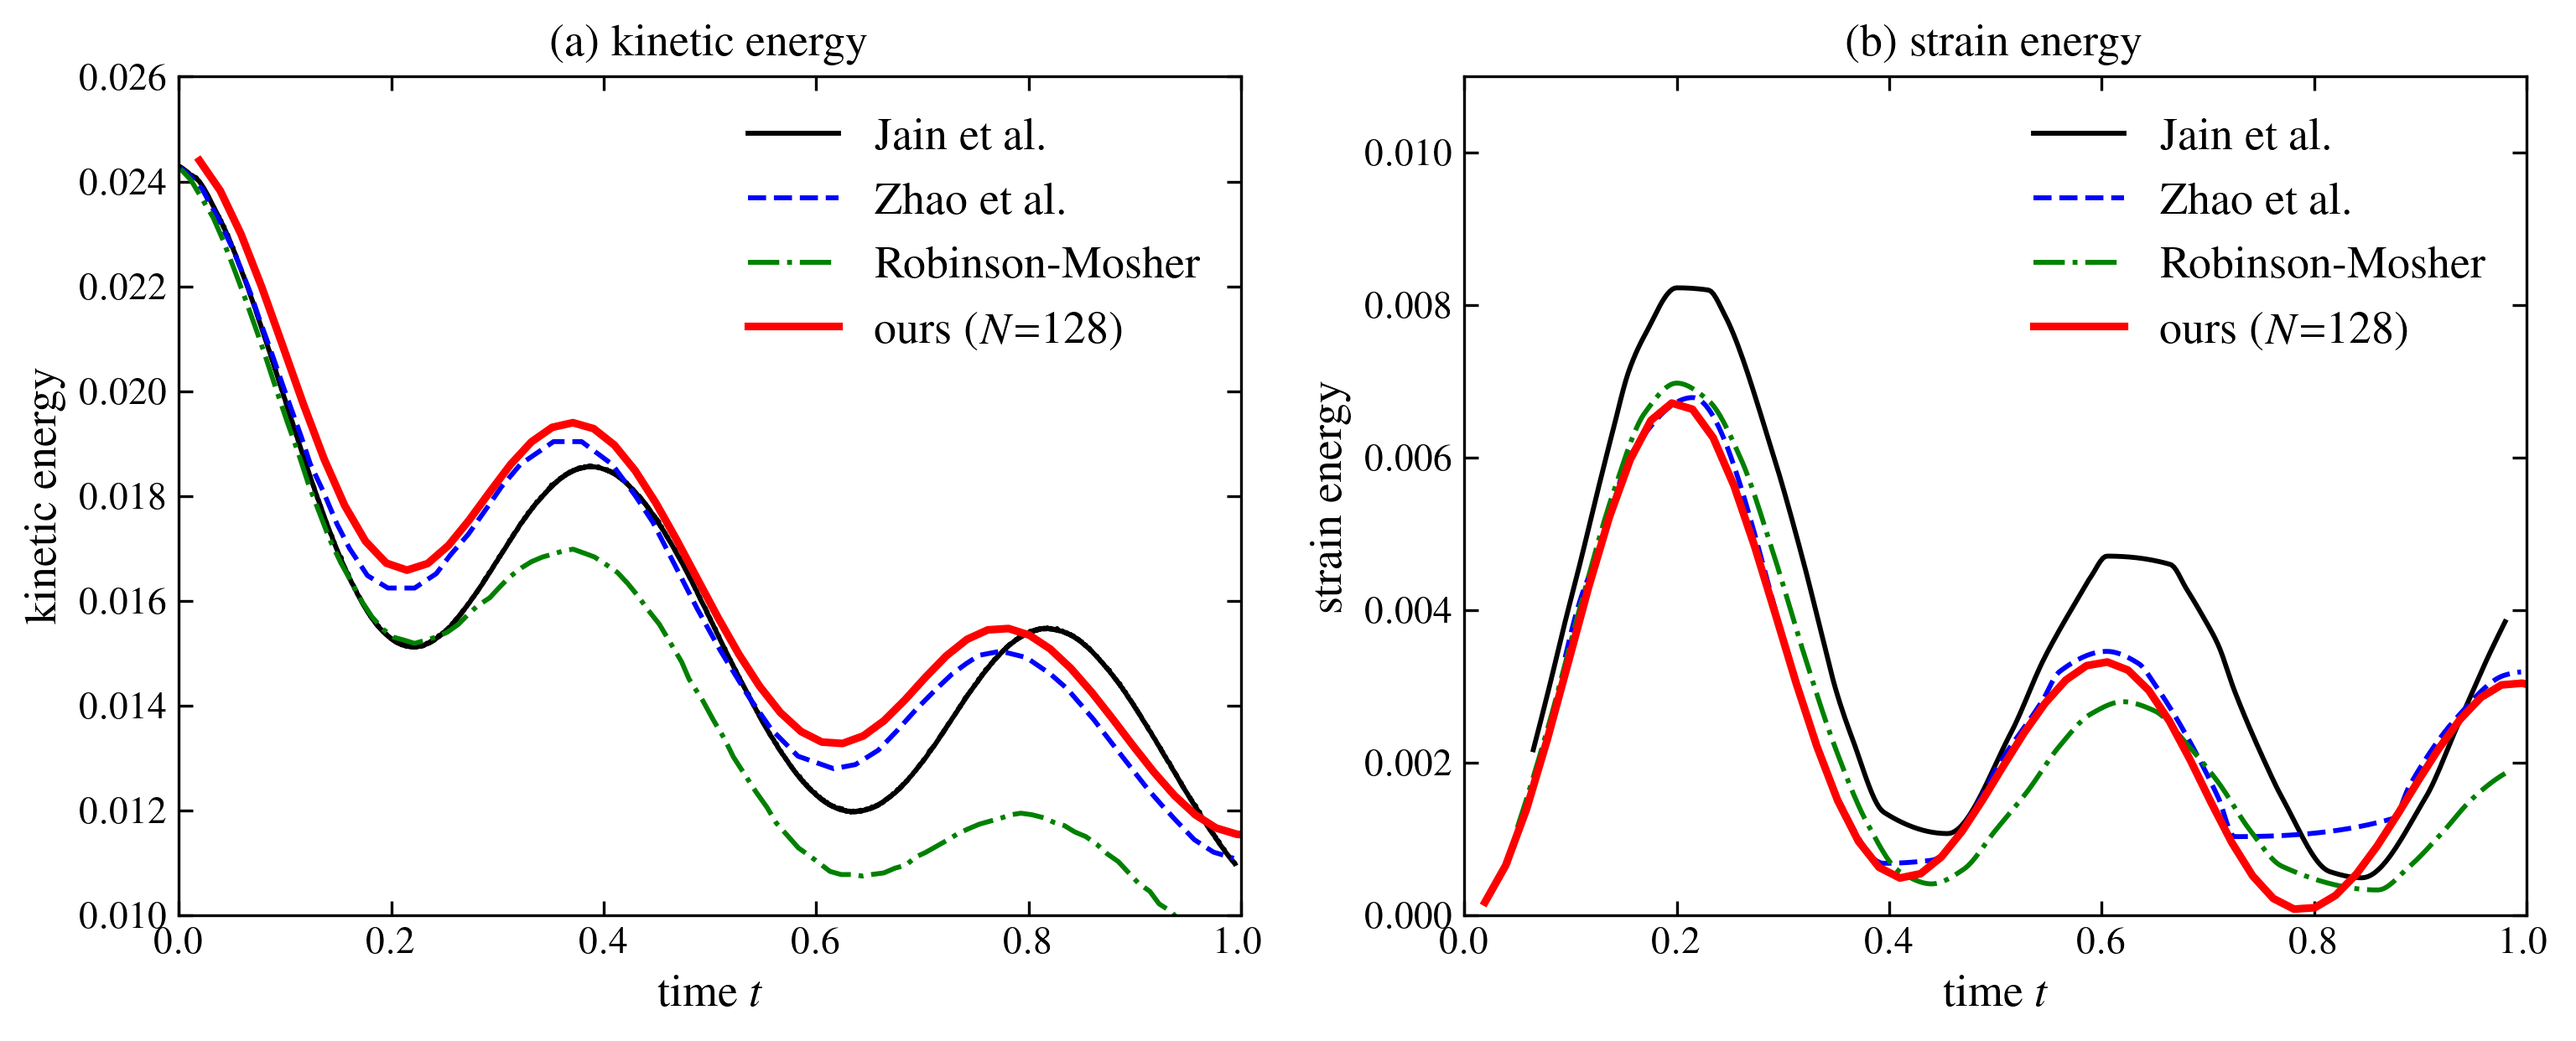
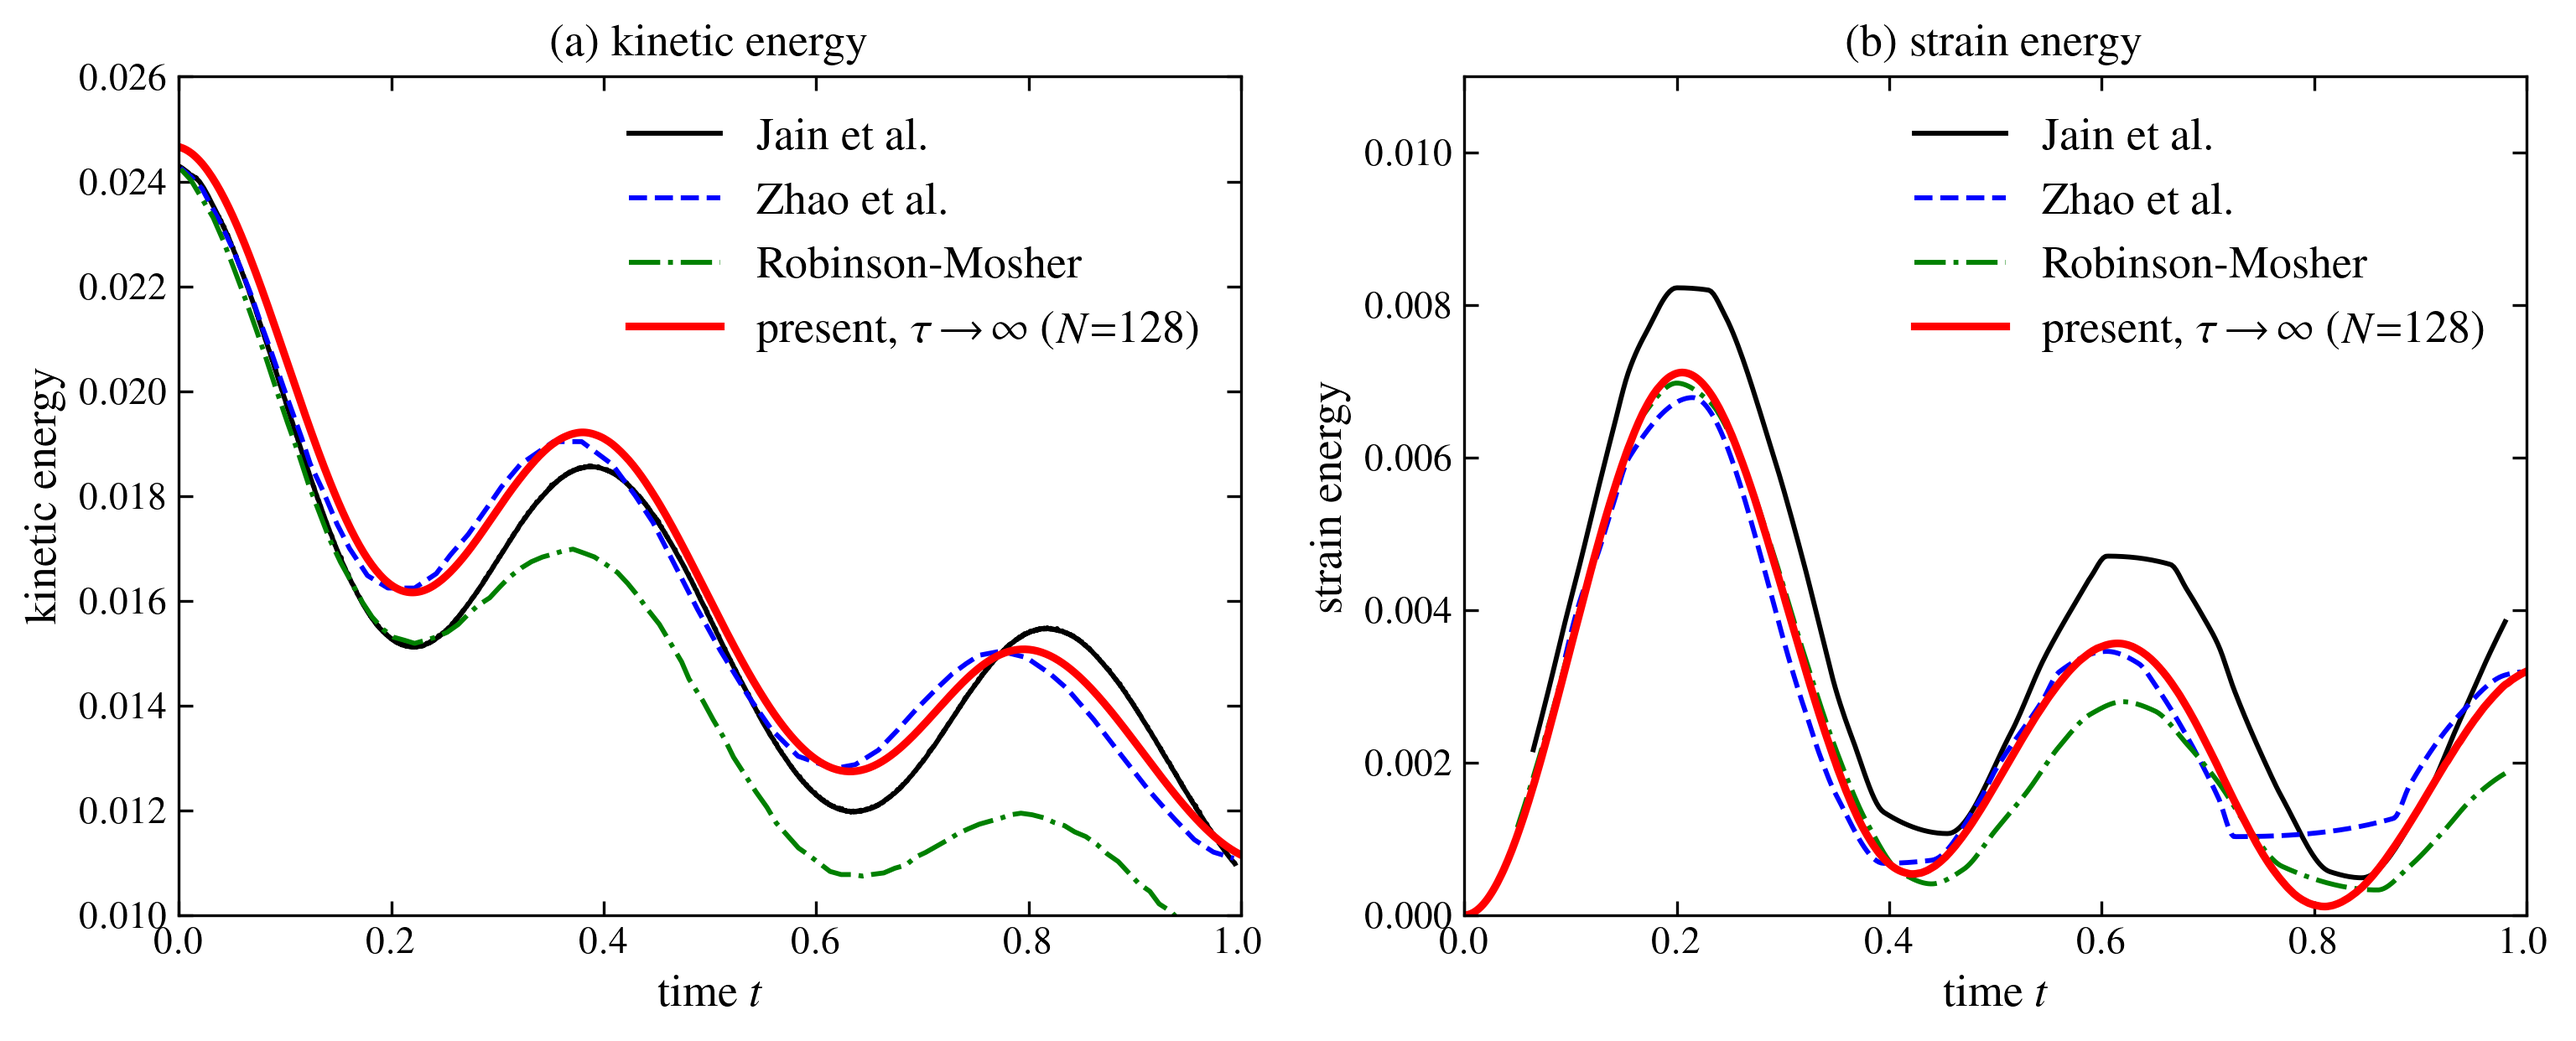
paper: present the elastic benchmarks as the tau->inf limit (unified model)
Reframe the pure-elastic results as the tau->inf limit of the viscoelastic model
(elasticity carried by the log-conformation branch, b_e -> F F^T), keeping the SLS
equilibrium branch in the formulation (still a viscoelastic solid). Verified by a
gate test (tg_tauinf_gate.py): tau->inf log-conf reproduces the neo-Hookean
disc-in-Taylor-Green KE/strain-energy to 3-5% of range (well inside the
Jain-Zhao spread), with cubic transport (bilinear also works -- this is an
extensional, non-winding flow).

- disc_tg_energy_figure.py: Fig 3 present curve now the tau->inf log-conf run
- main.tex: disc-in-TG + lid + example-summary + captions reframed to "elastic /
  tau->inf limit" (formulation/equilibrium branch retained)

diff --git a/benchmarks/tg_tauinf_gate.py b/benchmarks/tg_tauinf_gate.py
@@ -1,0 +1,74 @@
+"""GATE TEST: does the tau->inf log-conformation elastic limit reproduce the neo-Hookean
+disc-in-Taylor-Green energy benchmark (Fig. 3, vs Jain/Zhao)?
+
+Decision experiment for unifying the constitutive model on the log-conformation SLS with
+elasticity as the tau->inf limit. Compares, at the Jain parameters (N=128):
+  neo        -- reference-map neo-Hookean, sigma = mu_s dev(F F^T)   (the current Fig.3 curve)
+  tauinf     -- pure log-conformation branch at tau=inf, G_ve=mu_s   (cubic transport)
+  tauinf_bl  -- same, bilinear transport (expected to artificially relax -- illustrative)
+against the digitized Jain/Zhao kinetic-energy references. If neo and tauinf(cubic) coincide
+and track the references, the replacement is sound.
+"""
+import os, sys
+import numpy as np
+sys.path.insert(0, os.path.dirname(os.path.dirname(os.path.abspath(__file__))))
+from benchmarks.mac_disc_in_tg_convergence import run_one as run_neo
+from benchmarks.viscoelastic_disc_tg import run_one as run_ve
+from benchmarks.disc_tg_fsi_convergence import JAIN, _load_jain_methods
+
+ROOT = os.path.dirname(os.path.dirname(os.path.abspath(__file__)))
+JP = dict(R=0.2, x0=0.5, y0=0.5, mu_s=1.0, mu_f=1e-3, U0=0.05, kw=2)   # Jain params
+
+
+def main():
+    import matplotlib; matplotlib.use("Agg")
+    sys.path.insert(0, os.path.join(ROOT, "benchmarks"))
+    from _plotstyle import apply as _style; _style()
+    import matplotlib.pyplot as plt
+
+    N, T = 128, 1.0
+    print("neo (reference-map FFt, bilinear)...", flush=True)
+    hneo = run_neo(N, T, integrator="imex", **JAIN)["hist"]
+    print("tauinf (log-conf, cubic)...", flush=True)
+    hcub = run_ve(N, T, model="maxwell", G_ve=1.0, tau=np.inf, integrator="imex",
+                  scheme="semilagrangian_cubic", history=True, **JP)["hist"]
+    print("tauinf (log-conf, bilinear)...", flush=True)
+    hbl = run_ve(N, T, model="maxwell", G_ve=1.0, tau=np.inf, integrator="imex",
+                 scheme="semilagrangian", history=True, **JP)["hist"]
+    np.savez(os.path.join(ROOT, "outputs", "overlay", "tg_tauinf_gate.npz"),
+             neo_t=hneo["t"], neo_ke=hneo["ke"], neo_se=hneo["se"],
+             cub_t=hcub["t"], cub_ke=hcub["KE"], cub_se=hcub["Eel"],
+             bl_t=hbl["t"], bl_ke=hbl["KE"], bl_se=hbl["Eel"])
+
+    methods = _load_jain_methods()
+    ddir = os.path.join(ROOT, "benchmarks", "data")
+    fig, ax = plt.subplots(1, 2, figsize=(10.6, 4.4))
+    for m, c in (("Jain", "black"), ("Zhao", "blue")):
+        p = os.path.join(ddir, f"jain2019_fig14b_{m}_ke.csv")
+        if os.path.isfile(p):
+            d = np.loadtxt(p, delimiter=",", skiprows=1)
+            ax[0].plot(d[:, 0], d[:, 1], color=c, lw=1.2, ls="--", label=f"{m} et al.")
+        if methods and f"{m}_se" in methods:
+            t, y = methods[f"{m}_se"]; ax[1].plot(t, y, color=c, lw=1.2, ls="--", label=f"{m} et al.")
+    ax[0].plot(hneo["t"], hneo["ke"], "-", color="tab:red", lw=2.0, label="neo-Hookean")
+    ax[0].plot(hcub["t"], hcub["KE"], "--", color="tab:green", lw=1.8, label=r"$\tau\!\to\!\infty$ log-conf (cubic)")
+    ax[0].plot(hbl["t"], hbl["KE"], ":", color="tab:orange", lw=1.6, label=r"$\tau\!\to\!\infty$ (bilinear)")
+    ax[1].plot(hneo["t"], hneo["se"], "-", color="tab:red", lw=2.0, label="neo-Hookean")
+    ax[1].plot(hcub["t"], hcub["Eel"], "--", color="tab:green", lw=1.8, label=r"$\tau\!\to\!\infty$ (cubic)")
+    ax[1].plot(hbl["t"], hbl["Eel"], ":", color="tab:orange", lw=1.6, label=r"$\tau\!\to\!\infty$ (bilinear)")
+    ax[0].set_title("(a) kinetic energy"); ax[0].set_xlabel("time $t$"); ax[0].set_xlim(0, 1)
+    ax[1].set_title("(b) strain energy"); ax[1].set_xlabel("time $t$"); ax[1].set_xlim(0, 1)
+    ax[0].legend(fontsize=8); ax[1].legend(fontsize=8)
+    fig.tight_layout()
+    out = os.path.join(ROOT, "outputs", "overlay", "tg_tauinf_gate.png")
+    fig.savefig(out, dpi=170); print("saved", out)
+
+    def rms(a, b):  # over the shorter overlap
+        n = min(len(a), len(b)); return float(np.sqrt(np.mean((np.array(a[:n]) - np.array(b[:n]))**2)))
+    print(f"\nKE  rms(neo, cubic)={rms(hneo['ke'], hcub['KE']):.3e}   rms(neo, bilinear)={rms(hneo['ke'], hbl['KE']):.3e}")
+    print(f"SE  rms(neo, cubic)={rms(hneo['se'], hcub['Eel']):.3e}   rms(neo, bilinear)={rms(hneo['se'], hbl['Eel']):.3e}")
+    print(f"final SE: neo={hneo['se'][-1]:.4e}  cubic={hcub['Eel'][-1]:.4e}  bilinear={hbl['Eel'][-1]:.4e}")
+
+
+if __name__ == "__main__":
+    main()

diff --git a/paper/main.tex b/paper/main.tex
@@ -233,7 +233,7 @@ time integrators;
 and \cref{sec:verification} presents the numerical examples---constitutive verification
 against analytic limits; the disc-in-Taylor--Green benchmark and its viscoelastic (SLS)
 extension; the four-roll extension and shear benchmarks; colliding-disc contact in both
-regimes; the stiff-solid regime; and the neo-Hookean lid-driven cavity against Sugiyama
+regimes; the stiff-solid regime; and the elastic disc in a lid-driven cavity against Sugiyama
 \emph{et al.}---with the pure-fluid lid-cavity
 (Ghia) validation, the spatial-accuracy check, and the reference-map advection-scheme
 comparison collected in the supplementary material.
@@ -834,10 +834,13 @@ $1.0$ & $\infty,1,\tfrac14$ & $\psi_0{=}0.3$ & $\min(\tfrac{0.25\dx}{U_0 k},\tfr
 
 \subsection{Disc in a Taylor--Green vortex}
 \label{sec:disc-tg}
-A neo-Hookean disc of radius $r=0.2$ at the centre of a unit box is released in the vortex
+A soft disc of radius $r=0.2$ at the centre of a unit box is released in the vortex
 $\psi=\psi_0\sin(2\pi x)\sin(2\pi y)$ ($\psi_0=0.05$, $\mu_f=10^{-3}$, $\rho_s=\rho_f=1$, shear
 modulus $\mu_s=1.0$); it stretches, elastically retracts and oscillates while the fluid
-viscously damps it. This is the benchmark of Jain, Kamrin \& Mani \cite{Jain2019}, validated
+viscously damps it. We run it at the \emph{elastic limit of the viscoelastic model}
+($\tau\to\infty$, so the log-conformation branch is non-relaxing and $\be\to\Ften\Ften^{\!\top}$):
+this is the same benchmark that fixes the elastic response, now carried within the unified
+constitutive framework rather than by a separate neo-Hookean stress. This is the benchmark of Jain, Kamrin \& Mani \cite{Jain2019}, validated
 there against the mixed Eulerian--Lagrangian results of Zhao \emph{et al.}\ and
 Robinson-Mosher \emph{et al.}; we compare against all three. (The modulus needs a convention
 conversion: their $\mu_s=0.5$ in the $\sig_{\!s}=2\mu_s\bt$ convention is a physical shear
@@ -874,9 +877,10 @@ not the time integrator.
 
 \begin{figure}[t]\centering
 \includegraphics[width=\linewidth]{figures/disc_tg_energy.png}
-\caption{Disc in a Taylor--Green vortex ($\mu_s=1.0$, our $N{=}128$ in red): (a) kinetic and
-(b) strain energy vs.\ time, against Jain, Zhao, and Robinson-Mosher \emph{et al.}\
-\cite{Jain2019}. Our result tracks the reference methods.}
+\caption{Disc in a Taylor--Green vortex ($\mu_s=1.0$; present result at the $\tau\to\infty$
+elastic limit, $N{=}128$, red): (a) kinetic and (b) strain energy vs.\ time, against Jain, Zhao,
+and Robinson-Mosher \emph{et al.}\ \cite{Jain2019}. The $\tau\to\infty$ limit of the viscoelastic
+model tracks the reference methods, recovering the elastic benchmark.}
 \label{fig:disc-tg-energy}
 \end{figure}
 
@@ -1068,7 +1072,7 @@ substep, accurate to machine precision at \emph{any} $\dt$, \cref{sec:verificati
 
 %% (solver / integrator diagnostics are in the separate supplementary.tex)
 
-\subsection{Neo-Hookean (elastic) disc in a lid-driven cavity (FSI)}
+\subsection{Elastic disc in a lid-driven cavity (FSI)}
 \label{sec:disc-lid}
 A neo-Hookean \emph{elastic} disc carried by the cavity flow is compared to the
 full-Eulerian result of Sugiyama \emph{et al.}\ \cite{Sugiyama2011} and to Jain
@@ -1121,7 +1125,7 @@ $\tau\to\infty$ curve tracks Sugiyama slightly more closely on the inner spiral.
 
 \begin{figure*}[t]\centering
 \includegraphics[width=\linewidth]{figures/soft_disc_lid_snapshots.png}
-\caption{Neo-Hookean disc in the lid-driven cavity ($N{=}192$): the solid, its deformed
+\caption{Elastic disc in the lid-driven cavity ($N{=}192$): the solid, its deformed
 reference-map grid (dashed), and the flow streamlines, at the times of Jain \emph{et al.}\
 \cite{Jain2019}. The disc is swept around the vortex and stretched into a comma up the moving
 wall.}

diff --git a/benchmarks/disc_tg_energy_figure.py b/benchmarks/disc_tg_energy_figure.py
@@ -19,7 +19,14 @@ def main():
     import matplotlib.pyplot as plt
     from scipy.interpolate import PchipInterpolator
 
-    hist = run_one(128, 1.0, integrator="imex", **JAIN)["hist"]
+    # Present result = the model's tau->inf elastic limit, carried by the log-conformation
+    # branch (sigma = G dev(b_e), b_e -> F F^T as tau->inf). This recovers the elastic
+    # benchmark within the unified viscoelastic formulation (no separate neo-Hookean run).
+    from benchmarks.viscoelastic_disc_tg import run_one as run_ve
+    h = run_ve(128, 1.0, model="maxwell", G_ve=1.0, tau=np.inf, integrator="imex",
+               scheme="semilagrangian_cubic", R=0.2, x0=0.5, y0=0.5, mu_s=1.0,
+               mu_f=1e-3, U0=0.05, kw=2, history=True)["hist"]
+    hist = {"t": h["t"], "ke": h["KE"], "se": h["Eel"]}
     methods = _load_jain_methods()
 
     def smooth(t, y, n=400):
@@ -44,7 +51,8 @@ def main():
             key = f"{m}_{comp}"
             if methods is not None and key in methods:
                 ax[j].plot(*smooth(*methods[key]), color=c, ls=ls, lw=1.4, label=lab)
-        ax[j].plot(hist["t"], hist[comp], color="red", lw=2.2, label=r"ours ($N{=}128$)")
+        ax[j].plot(hist["t"], hist[comp], color="red", lw=2.2,
+                   label=r"present, $\tau\!\to\!\infty$ ($N{=}128$)")
         ax[j].set_xlabel("time $t$"); ax[j].set_xlim(0, 1)
     ax[0].set_ylabel("kinetic energy"); ax[0].set_ylim(0.010, 0.026)
     ax[0].set_title("(a) kinetic energy"); ax[0].legend(loc="upper right")
